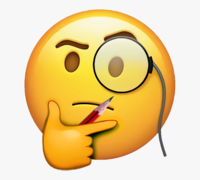
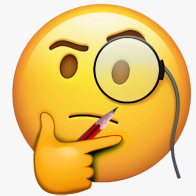
pwa-sw-v2

diff --git a/_includes/head.html b/_includes/head.html
@@ -16,7 +16,7 @@
 
   <link rel="manifest" href="manifest.json">
   <link rel="manifest" href="/assets/js/newhead.json">
-
+  <meta name="theme-color" content="#317EFB"/>
 
   {% if site.ga_tracking != nil %}
     <script async src="https://www.googletagmanager.com/gtag/js?id={{ site.ga_tracking }}"></script>
@@ -41,7 +41,9 @@
 	const el = document.createElement('pwa-update');
 	document.body.appendChild(el);
   </script>
+  
 
+  <link rel="apple-touch-icon" href="/assets/images/thinking3.png">
 
   <meta name="viewport" content="width=device-width, initial-scale=1">
 
